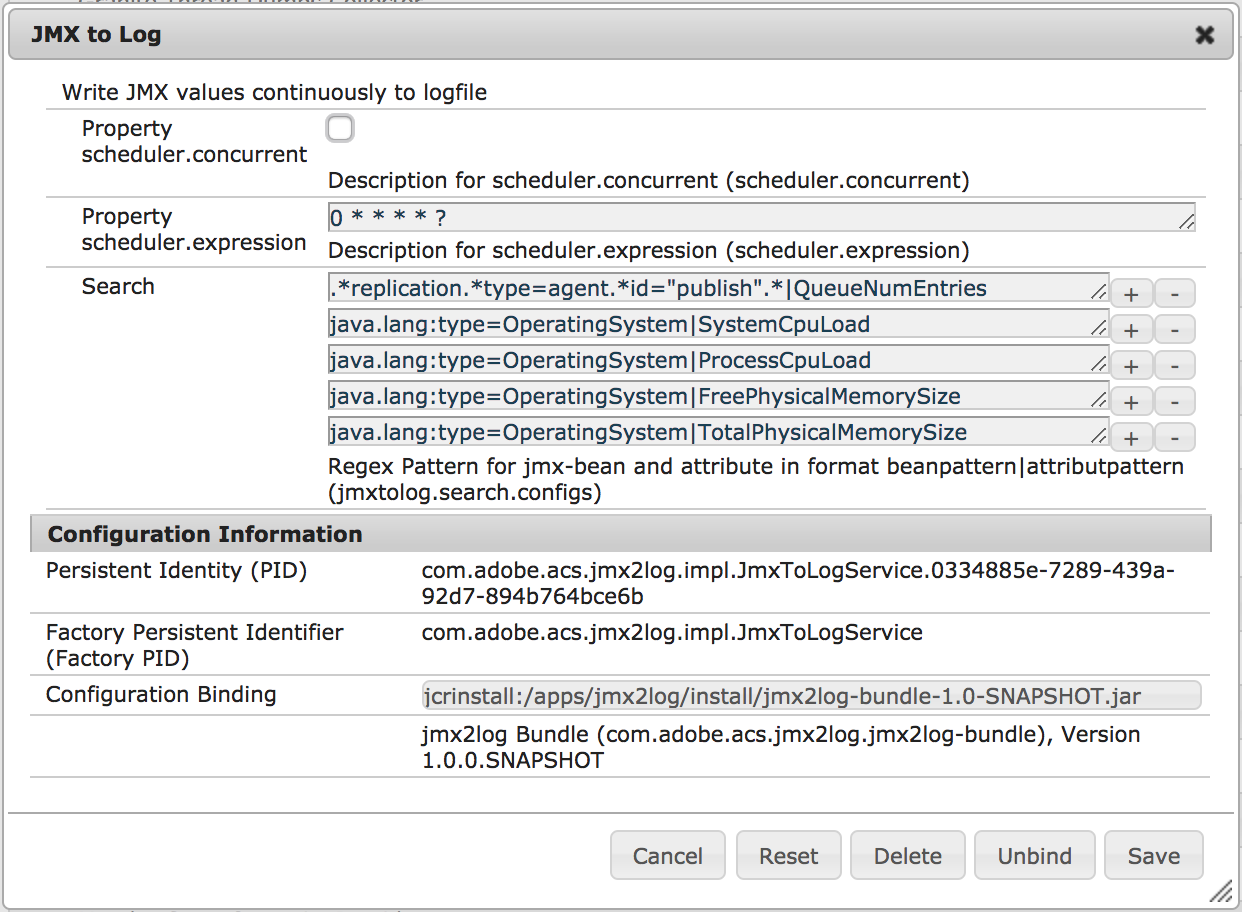
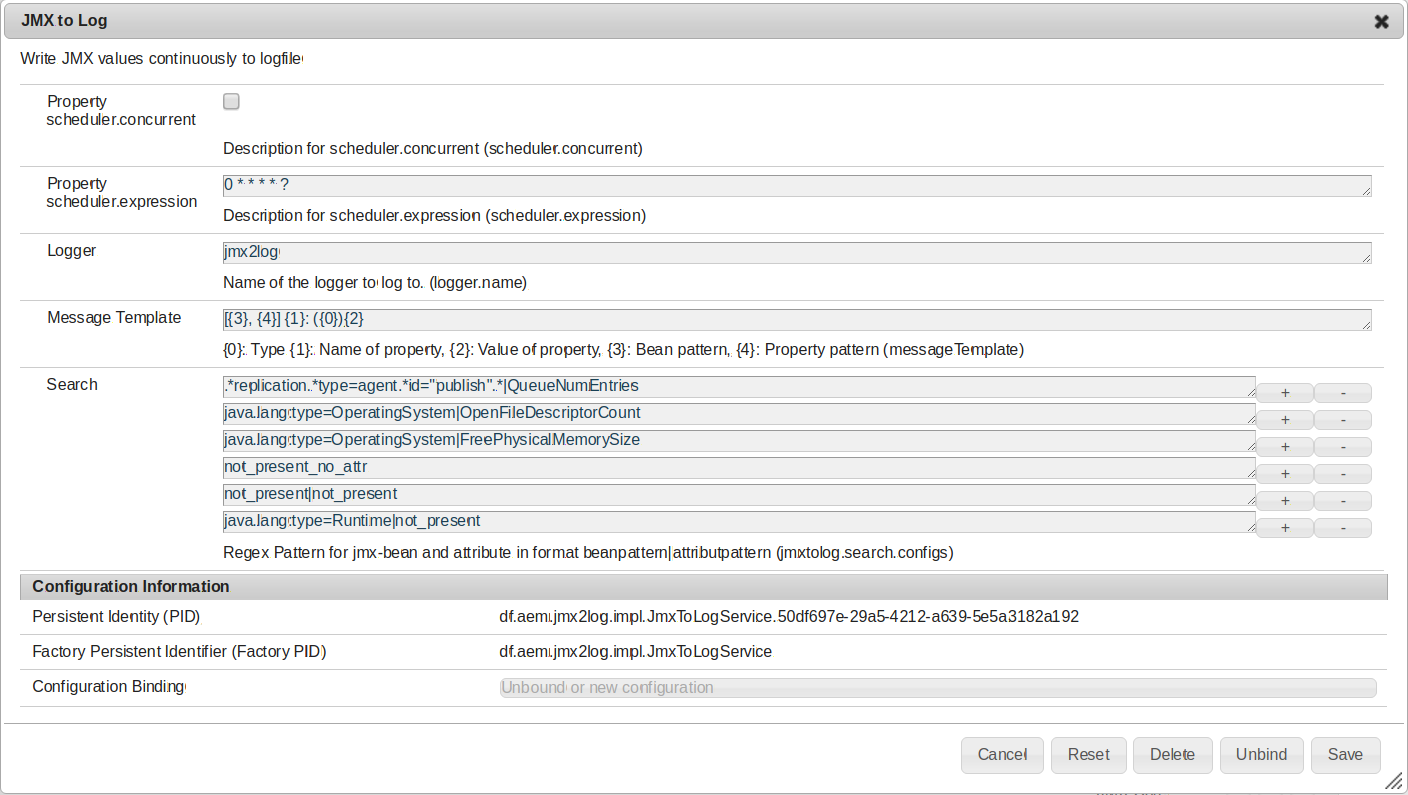
add documentation for extended configuration

diff --git a/README.md b/README.md
@@ -1,7 +1,7 @@
 jmx2log
 ========
 
-OSGi bundle with a service writing defined JMX values continuously to a logfile. Tested with AEM / Apache Felix
+OSGi bundle with a service writing defined JMX values continuously to a logfile. Tested with AEM 6.0 and 6.3 / Apache Felix.
 
 Release downloads
 --------
@@ -18,47 +18,75 @@ This project uses Maven for building. Common commands:
 Configuration
 --------
 
-Logging
---------
-
-Go to /system/console/slinglog and create an info logger for jmx2log.
-
-![Log Config](/doc/logconfig.png)
-
+The configuration of this bundle is twofold.
+1. Configure at least one service of type df.aem.jmx2log.impl.JmxToLogService.
+2. Configure Sling loggers to write the output of the configured JmxToLogServices to log files.
 
 Service-Configuration
 --------
 
-Go to /system/console/configMgr and create a new service instance with a configuration. Possible configuration settings are:
+Go to /system/console/configMgr and search for 'JMX to Log'. Create new service instances as needed. Each instance can be configured as follows:
 
-**Property scheduler.concurrent**
+**Property: scheduler.concurrent**
 
 Enables concurrent running. Default is false. 
 
-**Property scheduler.expression**
+**Property: scheduler.expression**
 
-Time settings...
+Scheduling settings as cron expression. Defaults to once per minute.
 
-**Search**
+**Property: Logger**
 
-1..n Strings with JMX search pattern in format BEAN|ATTRIBUTE
+The name of the logger to log bean attributes to. All logging to this logger will be on level INFO.
 
-The service is searching with BEAN for a JMX bean with a matching canonical name. The search pattern BEAN is used as a regular expression.
+(NB: Errors in configuration or problems with bean or attribute lookup will be logged to the class logger 'df.aem.jmx2log.impl.JmxToLogService'.)
 
-If a matching bean was found, the service is searching for an attribute with a matching name. The search pattern ATTRIBUTE is used as a regular expression, again.
+**Property: Message Template**
 
-![Service Config](/doc/config.png)
+This template will be used to create log messages. Defaults to '{1}: {2}'.
 
+Arbitrary text can be specified as defined by [java.text.MessageFormat](https://docs.oracle.com/javase/8/docs/api/java/text/MessageFormat.html).
+Following placeholders can be used:
+- **{0}**: Type
+- **{1}**: Name of property
+- **{2}**: Value of property
+- **{3}**: Bean pattern
+- **{4}**: Property pattern (messageTemplate)
+
+**Property: Search**
+
+1..n Strings with JMX search patterns in format BEAN|ATTRIBUTE, BEAN and ATTRIBUTE being separate regular expressions.
+(NB: Since the pipe character '|' is used to separate BEAN from ATTRIBUTE the pipe character must not be part of the regular expression matching BEAN.)
+
+The service will search for a JMX bean with its canonical name matching the regular expression BEAN.
+If ATTRIBUTE is omitted from a configuration line '.*' will be assumed, effectively matching *all* Attributes of *all* matching BEANs.
+(NB: Since JMX beans can come and go at runtime the presence of BEAN and ATTRIBUTE will not be checked at configuration time but on every scheduled run of JmxToLogService.
+Thus on every scheduled run regular expressions not matching any bean or attribute will be logged as a warning to 'df.aem.jmx2log.impl.JmxToLogService'. If BEAN and ATTRIBUTE do match but the retrieval of the corresponding value causes an exception this will be logged as an error.)
+
+There is a Servlet giving an overview of accessible JMX-Beans and attributes (see below).
+
+![Service Config](doc/config.png)
+
+Logging
+--------
+
+Go to /system/console/slinglog and create an info logger for 'jmx2log'. If you chose to override the default name for the bridging logger use that name here.
+Also add a file name and log level. Since all messages will be logged on level INFO you should choose this level as well.
+
+![Log Config](doc/logconfig.png)
+
+Problems in configuration or lookup will be logged to 'df.aem.jmx2log.impl.JmxToLogService'. Add this category to your logging configuration when setting up the service.
 
 Example Log output
 ---------
 
-![Log Config](/doc/output.png)
+![Log Config](doc/output.png)
 
 
-JMX-Dump-View
+JMX-Dump-View Servlet
 --------
 
-There is a Servlet for an overview of accessible JMX-Beans and attributes.
+The JMX-Dump-View Servlet exposes an overview of accessible JMX-Beans and attributes.
+The servlet is reachable in the OSGi system console via 'Main -> JMX mBean dump'.
 
-/system/console/JMX-Dump
+The direct link is /system/console/JMX-Dump
